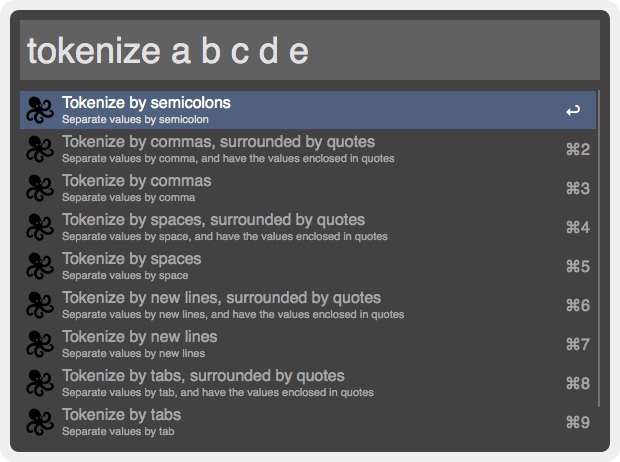
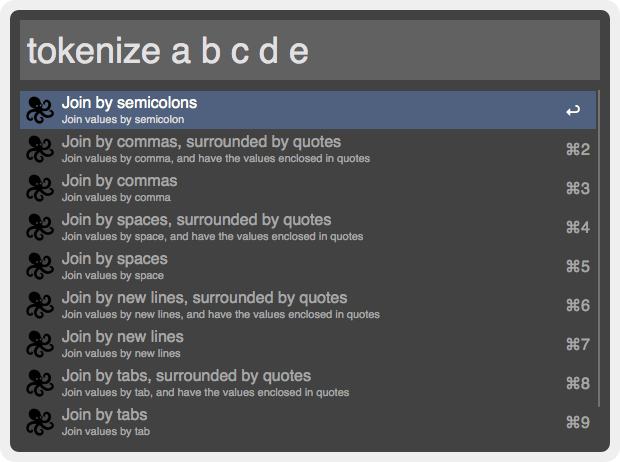
rewording of alfred feedback and screnshot update

Changed region(s): [[0.0919, 0.2121, 0.6435, 0.6061], [0.0919, 0.6364, 0.6742, 0.9394]]

diff --git a/workflow/feedback.rb b/workflow/feedback.rb
@@ -8,16 +8,16 @@ require_relative "tokenizer"
 query = ARGV[0]
 
 separators_info = [
-    {:key => 'comma_quote', :title => 'Tokenize by commas, surrounded by quotes', :subtitle => 'Separate values by comma, and have the values enclosed in quotes'},
-    {:key => 'comma', :title => 'Tokenize by commas', :subtitle => 'Separate values by comma'},
-    {:key => 'space_quote', :title => 'Tokenize by spaces, surrounded by quotes', :subtitle => 'Separate values by space, and have the values enclosed in quotes'},
-    {:key => 'space', :title => 'Tokenize by spaces', :subtitle => 'Separate values by space'},
-    {:key => 'newline_quote', :title => 'Tokenize by new lines, surrounded by quotes', :subtitle => 'Separate values by new lines, and have the values enclosed in quotes'},
-    {:key => 'newline', :title => 'Tokenize by new lines', :subtitle => 'Separate values by new lines'},
-    {:key => 'tab_quote', :title => 'Tokenize by tabs, surrounded by quotes', :subtitle => 'Separate values by tab, and have the values enclosed in quotes'},
-    {:key => 'tab', :title => 'Tokenize by tabs', :subtitle => 'Separate values by tab'},
-    {:key => 'semicolon_quote', :title => 'Tokenize by semicolons, surrounded by quotes', :subtitle => 'Separate values by semicolon, and have the values enclosed in quotes'},
-    {:key => 'semicolon', :title => 'Tokenize by semicolons', :subtitle => 'Separate values by semicolon'},
+    {:key => 'comma_quote', :title => 'Join by commas, surrounded by quotes', :subtitle => 'Join values by comma, and have the values enclosed in quotes'},
+    {:key => 'comma', :title => 'Join by commas', :subtitle => 'Join values by comma'},
+    {:key => 'space_quote', :title => 'Join by spaces, surrounded by quotes', :subtitle => 'Join values by space, and have the values enclosed in quotes'},
+    {:key => 'space', :title => 'Join by spaces', :subtitle => 'Join values by space'},
+    {:key => 'newline_quote', :title => 'Join by new lines, surrounded by quotes', :subtitle => 'Join values by new lines, and have the values enclosed in quotes'},
+    {:key => 'newline', :title => 'Join by new lines', :subtitle => 'Join values by new lines'},
+    {:key => 'tab_quote', :title => 'Join by tabs, surrounded by quotes', :subtitle => 'Join values by tab, and have the values enclosed in quotes'},
+    {:key => 'tab', :title => 'Join by tabs', :subtitle => 'Join values by tab'},
+    {:key => 'semicolon_quote', :title => 'Join by semicolons, surrounded by quotes', :subtitle => 'Join values by semicolon, and have the values enclosed in quotes'},
+    {:key => 'semicolon', :title => 'Join by semicolons', :subtitle => 'Join values by semicolon'},
 ]
 
 Alfred.with_friendly_error do |alfred|
